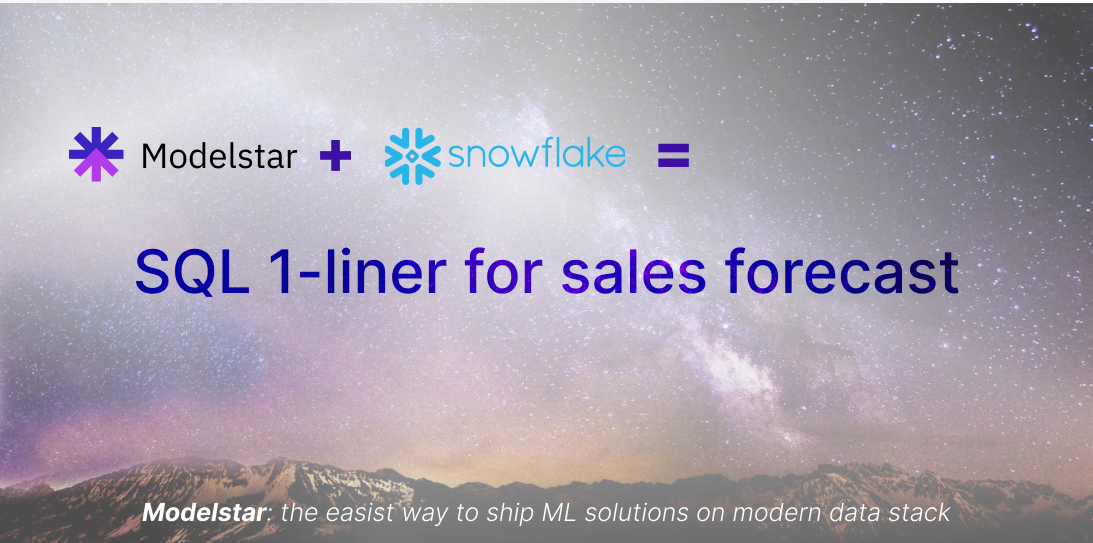
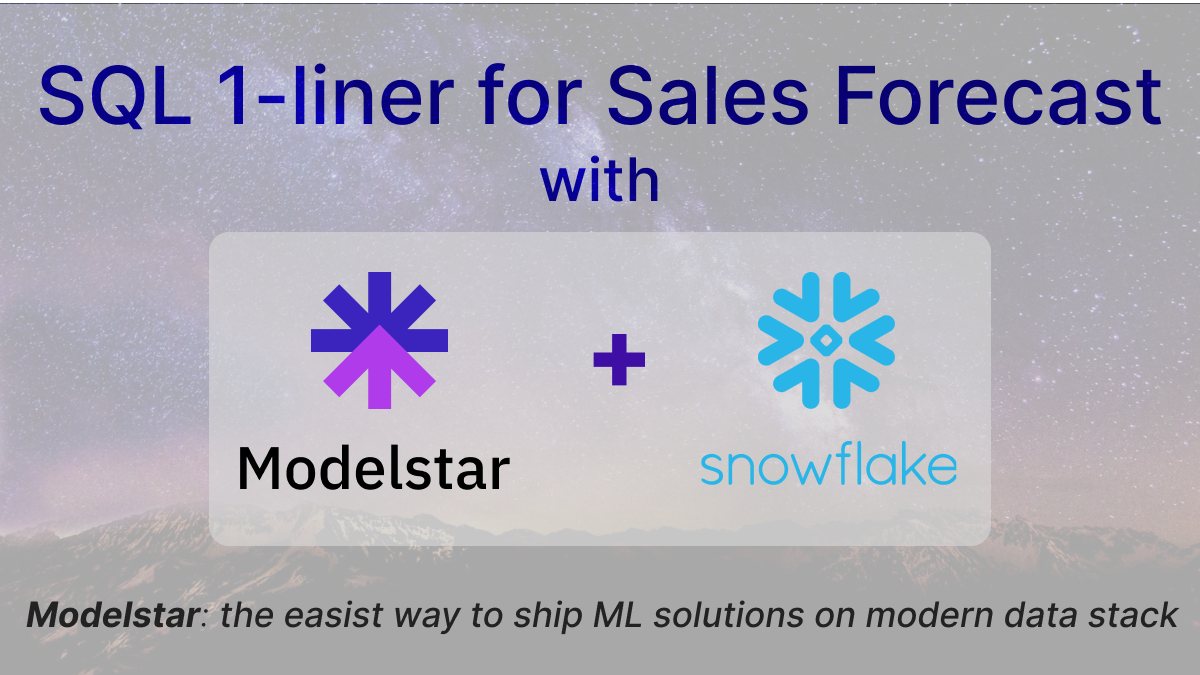
Update: title image and social.

diff --git a/src/css/custom.css b/src/css/custom.css
@@ -137,35 +137,11 @@
     background: hsl(var(--site-primary-hue-saturation) 80%);
 }
 
-@media (min-width: 997px) {
-    #__docusaurus
-        > div.main-wrapper.mainWrapper_node_modules-\@docusaurus-theme-classic-lib-theme-Layout-styles-module.docsWrapper_node_modules-\@docusaurus-theme-classic-lib-theme-DocPage-Layout-styles-module
-        > div
-        > main
-        > div
-        > div
-        > div.col.docItemCol_node_modules-\@docusaurus-theme-classic-lib-theme-DocItem-Layout-styles-module {
-        padding-left: 2.5rem;
-    }
-}
-
-#__docusaurus
-    > div.main-wrapper.mainWrapper_node_modules-\@docusaurus-theme-classic-lib-theme-Layout-styles-module.docsWrapper_node_modules-\@docusaurus-theme-classic-lib-theme-DocPage-Layout-styles-module
-    > div
-    > aside
-    > div
-    > nav {
+#__docusaurus > div > div > aside > div > nav {
     padding: 2rem 0.5rem 0.5rem 0.5rem;
 }
 
-#__docusaurus
-    > div.main-wrapper.mainWrapper_node_modules-\@docusaurus-theme-classic-lib-theme-Layout-styles-module.docsWrapper_node_modules-\@docusaurus-theme-classic-lib-theme-DocPage-Layout-styles-module
-    > div
-    > aside
-    > div
-    > nav
-    > ul
-    > li {
+#__docusaurus > div > div > aside > div > nav > ul > li {
     margin-top: 0.5rem;
 }
 
@@ -173,38 +149,21 @@ article > div.theme-doc-markdown.markdown > p > img {
     border-radius: 5px;
 }
 
-#__docusaurus
-    > div.main-wrapper.mainWrapper_node_modules-\@docusaurus-theme-classic-lib-theme-Layout-styles-module.docsWrapper_node_modules-\@docusaurus-theme-classic-lib-theme-DocPage-Layout-styles-module
-    > div
-    > main
-    > div
-    > div
-    > div
-    > div
-    > article
-    > div.theme-doc-markdown.markdown
-    > div
-    > div.admonitionHeading_node_modules-\@docusaurus-theme-classic-lib-theme-Admonition-styles-module {
-    font: var(--ifm-heading-font-weight) 0.7rem / var(--ifm-heading-line-height)
-        var(--ifm-heading-font-family);
+div.theme-admonition > div > span > svg {
+    height: 1.1em;
+    width: 1.1em;
 }
 
-#__docusaurus
-    > div.main-wrapper.mainWrapper_node_modules-\@docusaurus-theme-classic-lib-theme-Layout-styles-module.docsWrapper_node_modules-\@docusaurus-theme-classic-lib-theme-DocPage-Layout-styles-module
-    > div
-    > main
-    > div
-    > div
-    > div.col.docItemCol_node_modules-\@docusaurus-theme-classic-lib-theme-DocItem-Layout-styles-module
-    > div
-    > article
-    > div.theme-doc-markdown.markdown
-    > div
-    > div.admonitionContent_node_modules-\@docusaurus-theme-classic-lib-theme-Admonition-styles-module {
+/* div.theme-admonition > div {
+    font: var(--ifm-heading-font-weight) 0.7rem / var(--ifm-heading-line-height)
+        var(--ifm-heading-font-family);
+}  */
+
+div.theme-admonition > div > p {
     font-size: 0.9rem;
 }
 
-.announcementBar_node_modules-\@docusaurus-theme-classic-lib-theme-AnnouncementBar-styles-module {
+#__docusaurus > [role="banner"] {
     --site-announcement-bar-stripe-color1: hsl(
         var(--site-primary-hue-saturation) 90%
     );

diff --git a/docs/tutorials/sales-forecasting-inside-snowflake/index.md b/docs/tutorials/sales-forecasting-inside-snowflake/index.md
@@ -3,10 +3,9 @@ title: Forecast Sales inside Snowflake with 1 Line of SQL
 description: Forecast Sales inside Snowflake with 1 Line of SQL
 sidebar_label: Forecast Sales inside Snowflake
 keywords:
-    - sales forecast
-    - snowflake
-    - machine learning
-image: ./title-image.png
+    - docs
+    - modelstar
+image: https://cdn.modelstar.io/tutorial_1_social.png
 ---
 
 import ForecastChart from './forecast-chart.png';
